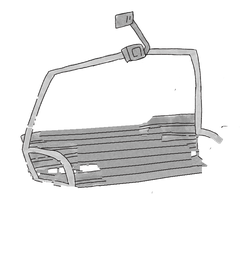
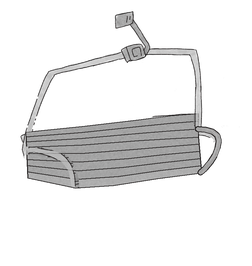
Clean up the empty chairs and doodle the lift towers in colour
The empty chair's seat and backrest are redrawn whole, closing the gaps,
with the original frame laid back on top and the right armrest bar his
ski hid drawn in to match the left. The towers are hand-drawn in colour
to sit with the chair art: a blue pole with a ladder and a yellow pad,
a braced cross-arm and the wheel train the cable now rides over.

Changed region(s): [[0.0833, 0.4211, 0.8889, 0.7218]]

diff --git a/griffinland.js b/griffinland.js
@@ -774,8 +774,9 @@ document.getElementById("gl-webring-random").addEventListener("click", function(
 
 // ===== The horizon ===========================================================
 // A white line-drawn treeline across the bottom of the desktop, with a
-// chairlift running over it: the cable and its towers are drawn in with the
-// trees, and the chairs (one of them carrying griffin) ride along on top.
+// chairlift running over it: the cable is drawn in with the trees, the
+// towers are doodled in colour on their own layer, and the chairs (one of
+// them carrying griffin) ride along on top.
 // Redrawn to fit whenever the window changes size.
 
 var GROUND_Y = 160;              // the ground line, in the horizon's 170px
@@ -814,20 +815,70 @@ function drawTrees() {
         x += rand(70, 190);
     }
 
-    // The lift: one cable climbing gently left to right...
-    d += " M0 " + cableY(0, W) + " L" + W + " " + cableY(W, W);
-    // ...held up by towers - a tapered pole, a cross-arm and two sheaves
-    for (var t = 170; t < W; t += 380) {
-        var cy = cableY(t, W);
-        d += " M" + (t - 5) + " " + base + " L" + (t - 2) + " " + (cy + 6) +
-             " M" + (t + 5) + " " + base + " L" + (t + 2) + " " + (cy + 6) +
-             " M" + (t - 4) + " " + (base - 30) + " H" + (t + 4) +
-             " M" + (t - 3) + " " + (base - 70) + " H" + (t + 3) +
-             " M" + (t - 16) + " " + (cy + 6) + " H" + (t + 16) +
-             " M" + (t - 11) + " " + (cy + 6) + " V" + (cy + 2) + " M" + (t + 11) + " " + (cy + 6) + " V" + (cy + 2);
-    }
-
     holder.innerHTML = '<svg viewBox="0 0 ' + W + ' 170" width="' + W + '" height="170"><path d="' + d + '"/></svg>';
+
+    // The lift's towers, drawn in their own layer so they can be coloured...
+    var towers = document.querySelector("#gl-horizon .gl-towers");
+    if (towers) {
+        var art = "";
+        for (var t = 170; t < W; t += 380) art += towerSVG(t, cableY(t, W), base);
+        // ...and the cable, climbing gently left to right over their wheels
+        art += '<path d="M0 ' + cableY(0, W) + ' L' + W + ' ' + cableY(W, W) + '" stroke="#fff" stroke-width="2" fill="none"/>';
+        towers.innerHTML =
+            '<svg viewBox="0 0 ' + W + ' 170" width="' + W + '" height="170">' +
+                // A touch of wobble on every line, so they look hand-drawn
+                '<filter id="gl-doodle"><feTurbulence type="fractalNoise" baseFrequency="0.06" numOctaves="2" seed="7"/>' +
+                '<feDisplacementMap in="SourceGraphic" scale="1.8"/></filter>' +
+                '<g filter="url(#gl-doodle)">' + art + '</g>' +
+            '</svg>';
+    }
+}
+
+// One lift tower, doodled to sit with the chair art: a blue pole in black ink
+// with a highlight and a ladder up its side, a yellow pad and a concrete
+// footing at the bottom, and at the top a braced cross-arm carrying the train
+// of wheels the cable rides over. t is the tower's x, cy the cable's height
+// there and base the ground line.
+var TOWER_INK = "#1d1b1b";
+var TOWER_BLUE = "#2b74b3";
+function towerSVG(t, cy, base) {
+    var poleTop = cy + 12;
+    var armY = cy + 10;
+    var wide = 7, narrow = 4.5;      // half-widths: the pole tapers as it rises
+    var ink = ' stroke="' + TOWER_INK + '" stroke-width="1.8" stroke-linejoin="round" stroke-linecap="round"';
+    var svg = "";
+
+    // footing and the yellow safety pad round the base
+    svg += '<rect x="' + (t - 11) + '" y="' + (base - 6) + '" width="22" height="7" fill="#c9c2b2"' + ink + '/>';
+    // the pole
+    svg += '<path d="M' + (t - narrow) + ' ' + poleTop + ' L' + (t + narrow) + ' ' + poleTop +
+           ' L' + (t + wide) + ' ' + (base - 6) + ' L' + (t - wide) + ' ' + (base - 6) + ' Z" fill="' + TOWER_BLUE + '"' + ink + '/>';
+    svg += '<path d="M' + (t - narrow + 2) + ' ' + (poleTop + 5) + ' L' + (t - wide + 2.5) + ' ' + (base - 28) + '" stroke="#8cc3ea" stroke-width="1.6" stroke-linecap="round"/>';
+    svg += '<rect x="' + (t - wide - 1.5) + '" y="' + (base - 26) + '" width="' + (wide * 2 + 3) + '" height="18" rx="2" fill="#f2c230"' + ink + '/>';
+    // the ladder up its right side
+    var lx = t + wide + 3;
+    svg += '<path d="M' + (lx - 1) + ' ' + (poleTop + 18) + ' L' + (lx + 0.5) + ' ' + (base - 28) +
+           ' M' + (lx + 4) + ' ' + (poleTop + 18) + ' L' + (lx + 5.5) + ' ' + (base - 28) + '" stroke="' + TOWER_INK + '" stroke-width="1" fill="none"/>';
+    var rungs = "";
+    for (var y = poleTop + 22; y < base - 30; y += 7) {
+        var f = (y - poleTop) / (base - poleTop);
+        rungs += ' M' + (lx - 1 + 1.5 * f) + ' ' + y + ' H' + (lx + 4 + 1.5 * f);
+    }
+    svg += '<path d="' + rungs + '" stroke="' + TOWER_INK + '" stroke-width="1"/>';
+    // braces from the pole out to the ends of the cross-arm: ink under blue
+    var braces = 'M' + (t - 2) + ' ' + (poleTop + 14) + ' L' + (t - 19) + ' ' + (armY + 2) +
+                 ' M' + (t + 2) + ' ' + (poleTop + 14) + ' L' + (t + 19) + ' ' + (armY + 2);
+    svg += '<path d="' + braces + '" stroke="' + TOWER_INK + '" stroke-width="5" stroke-linecap="round" fill="none"/>';
+    svg += '<path d="' + braces + '" stroke="' + TOWER_BLUE + '" stroke-width="2.4" stroke-linecap="round" fill="none"/>';
+    // the cross-arm
+    svg += '<rect x="' + (t - 26) + '" y="' + (armY - 3) + '" width="52" height="6" rx="1.5" fill="' + TOWER_BLUE + '"' + ink + '/>';
+    // the wheel train: a grey bar, and four wheels whose tops carry the cable
+    svg += '<rect x="' + (t - 21) + '" y="' + (cy + 4) + '" width="42" height="4" rx="1" fill="#cfcfcf"' + ink + '/>';
+    for (var k = -1.5; k <= 1.5; k++) {
+        svg += '<circle cx="' + (t + k * 10) + '" cy="' + (cy + 3.2) + '" r="3.4" fill="#f4f4f4"' + ink + '/>' +
+               '<circle cx="' + (t + k * 10) + '" cy="' + (cy + 3.2) + '" r="0.9" fill="' + TOWER_INK + '"/>';
+    }
+    return svg;
 }
 
 var LIFT_CHAIRS = 6;

diff --git a/index.html b/index.html
@@ -33,7 +33,7 @@
     </script>
 
     <link rel="stylesheet" href="main.css?v=2">
-    <link rel="stylesheet" href="griffinland.css?v=16">
+    <link rel="stylesheet" href="griffinland.css?v=17">
     <!-- Jquery -->
     <script src="https://ajax.googleapis.com/ajax/libs/jquery/3.5.1/jquery.min.js"></script>
     <link rel="stylesheet" href="https://code.jquery.com/ui/1.12.1/themes/base/jquery-ui.css">
@@ -81,6 +81,7 @@
                 <path d="M0 160 H1200"/>
             </svg>
             <div class="gl-trees"></div>
+            <div class="gl-towers"></div>
             <div class="gl-lift"></div>
             <img class="gl-dino" src="gifs/dino.png" alt="" draggable="false">
             <div class="gl-birds"><span>v</span><span>v</span><span>v</span></div>
@@ -322,7 +323,7 @@
       </div>
     </div>
     <script src="main.js?v=7"></script>
-    <script src="griffinland.js?v=8"></script>
+    <script src="griffinland.js?v=9"></script>
 
 </body>
 </html>

diff --git a/griffinland.css b/griffinland.css
@@ -1368,6 +1368,16 @@ html.gated #gl-horizon {
 .gl-trees svg {
     display: block;
 }
+/* The towers sit between the treeline and the chairs, at full strength */
+.gl-towers {
+    position: absolute;
+    left: 0;
+    top: 0;
+}
+.gl-towers svg {
+    display: block;
+    overflow: visible;
+}
 /* The dino, out for his walk along the line - one slow lap, bobbing */
 .gl-dino {
     position: absolute;

diff --git a/tools/griffin-rig.py b/tools/griffin-rig.py
@@ -91,48 +91,63 @@ for k, a in layers.items():
 print('wrote', len(layers), 'layers to', os.path.normpath(OUT))
 
 # ===== The empty chair ======================================================
-# The same chair with griffin lifted out, for the lift's other chairs.
-#   1. Find him: his colours (jacket, helmet, skin, goggles, bottle), the big
-#      dark trouser shapes, and the part outlines above (gloves, skis).
-#   2. Where he hid the seat and backrest, redraw them: slats between the
-#      edges the visible parts of the chair follow, in the art's line weight
-#      and its see-through marker grey.
-#   3. Anywhere else he covered is open air - except where his right ski
-#      crossed the frame's right-hand loop, which is bridged by inpainting.
+# The same chair with griffin lifted out, for the lift's other chairs. Rather
+# than patch around where he was:
+#   1. redraw the whole seat and backrest - slats in the art's see-through
+#      grey and line weight, closing every gap;
+#   2. lay the original frame back on top: the top rail and hanger, both
+#      posts and the left armrest bar, exactly as drawn (minus any flecks of
+#      his outline left floating on their own);
+#   3. draw the right armrest bar, which his ski hid, as a matching tube
+#      curving from the right post down to the seat's front corner.
 def empty_chair(arr):
     alpha = arr[:, :, 3]
+    yy, xx = np.mgrid[0:H, 0:W]
     hsv = cv2.cvtColor(np.ascontiguousarray(arr[:, :, :3]), cv2.COLOR_RGB2HSV).astype(int)
     s, v = hsv[:, :, 1], hsv[:, :, 2]
-    colourful = (s > 70) & (alpha > 0)
+
+    # griffin, as before: his colours, the big trouser shapes, the rig outlines
+    fig = (s > 70) & (alpha > 0)
     dark = ((v < 60) & (alpha > 0)).astype(np.uint8)
-    dark_big = cv2.morphologyEx(dark, cv2.MORPH_OPEN, np.ones((9, 9), np.uint8)) > 0
-    fig = colourful | dark_big
+    fig |= cv2.morphologyEx(dark, cv2.MORPH_OPEN, np.ones((9, 9), np.uint8)) > 0
     m = Image.new('L', (W, H), 0)
     for poly in PARTS.values():
         ImageDraw.Draw(m).polygon(poly, fill=255)
     fig |= np.array(m) > 127
-    # he sits inside the chair: nothing of him reaches the frame's top rail or
-    # posts, so keep the colour test off them (the frame's grey has a tint)
-    yy, xx = np.mgrid[0:H, 0:W]
     fig &= ~((yy < 215) | (xx < 80) | ((xx < 265) & (yy < 300)) | ((xx > 598) & (yy < 405)))
     fig = cv2.dilate(fig.astype(np.uint8), np.ones((7, 7), np.uint8)) > 0
-    fig = cv2.morphologyEx(fig.astype(np.uint8), cv2.MORPH_CLOSE, np.ones((15, 15), np.uint8)) > 0
 
-    # --- 2. the seat and backrest, redrawn where he hid them --------------------
+    INK = (30, 27, 27, 255)
+    GREY = (146, 146, 146, 255)
+    rng = np.random.default_rng(1)
+    grain = cv2.GaussianBlur(rng.normal(0, 9, (H, W)), (0, 0), 1.2)
+    see = cv2.GaussianBlur(rng.normal(0, 28, (H, W)), (0, 0), 1.5)
+
+    def marker(layer):
+        # the art's grey is see-through and grainy; give the drawn grey the same
+        a = np.array(layer)
+        g = (a[:, :, 3] > 0) & (a[:, :, 0] > 100)
+        a[g, :3] = np.clip(a[g, :3].astype(float) + grain[g][:, None], 0, 255).astype(np.uint8)
+        a[g, 3] = np.clip(212 + see[g], 150, 252).astype(np.uint8)
+        return a
+
     def lerp_line(a, b, t):
         return [(ax + (bx - ax) * t, ay + (by - ay) * t) for (ax, ay), (bx, by) in zip(a, b)]
 
-    xs = [88, 260, 440, 540, 640]
-    back_top = list(zip(xs, [418, 409, 396, 381, 366]))
-    back_bot = list(zip(xs, [467, 461, 447, 441, 436]))
-    seat_bot = list(zip(xs, [566, 596, 578, 562, 549]))
+    # --- 1. the seat and backrest, whole ----------------------------------------
+    xs = [82, 260, 440, 540, 630]
+    back_top = list(zip(xs, [420, 402, 381, 368, 361]))   # meets the drawn backrest's own top edge
+    back_bot = list(zip(xs, [468, 461, 447, 441, 436]))
+    seat_bot = list(zip([88, 240, 360, 500, 640], [566, 598, 590, 568, 550]))
     slats = Image.new('RGBA', (W, H), (0, 0, 0, 0))
     d = ImageDraw.Draw(slats)
-    d.polygon(back_top + back_bot[::-1], fill=(146, 146, 146, 255))   # the drawing's own grey
-    d.polygon(back_bot + seat_bot[::-1], fill=(146, 146, 146, 255))
+    d.polygon(back_top + back_bot[::-1], fill=GREY)
+    d.polygon(back_bot + seat_bot[::-1], fill=GREY)
     bar_top = lerp_line(back_bot, seat_bot, 0.8)
-    d.polygon(bar_top + seat_bot[::-1], fill=(158, 158, 158, 255))       # the seat's front bar
-    INK = (30, 27, 27, 255)
+    d.polygon(bar_top + seat_bot[::-1], fill=(158, 158, 158, 255))
+    slats = Image.fromarray(marker(slats))
+    d = ImageDraw.Draw(slats)
+    d.line(back_top, fill=INK, width=3, joint='curve')
     for t in (0.33, 0.66):
         d.line(lerp_line(back_top, back_bot, t), fill=INK, width=3, joint='curve')
     d.line(back_bot, fill=INK, width=3, joint='curve')
@@ -140,33 +155,55 @@ def empty_chair(arr):
         d.line(lerp_line(back_bot, seat_bot, t), fill=INK, width=3, joint='curve')
     d.line(bar_top, fill=INK, width=3, joint='curve')
     d.line(seat_bot, fill=INK, width=3, joint='curve')
-    slats = np.array(slats)
-    # The drawing's marker greys are see-through (alpha ~210, varying with the
-    # grain), so the fill is too - opaque grey looked flat next to the original
-    rng = np.random.default_rng(1)
-    grain = cv2.GaussianBlur(rng.normal(0, 9, (H, W)), (0, 0), 1.2)
-    see = cv2.GaussianBlur(rng.normal(0, 28, (H, W)), (0, 0), 1.5)
-    filled = (slats[:, :, 3] > 0) & (slats[:, :, 0] > 100)
-    slats[filled, :3] = np.clip(slats[filled, :3].astype(float) + grain[filled][:, None], 0, 255).astype(np.uint8)
-    slats[filled, 3] = np.clip(212 + see[filled], 150, 252).astype(np.uint8)
+    # the seat's two ends
+    d.line([back_top[0], seat_bot[0]], fill=INK, width=3)
+    d.line([back_top[-1], back_bot[-1], seat_bot[-1]], fill=INK, width=3)
+    im = Image.new('L', (W, H), 0)
+    ImageDraw.Draw(im).polygon(back_top + back_bot[::-1], fill=255)
+    ImageDraw.Draw(im).polygon(back_bot + seat_bot[::-1], fill=255)
+    interior = np.array(im) > 0
 
-    # --- 3. put it together ------------------------------------------------------
-    rgb = arr[:, :, :3].copy()
-    rgb[alpha < 20] = 255
-    hole = fig.astype(np.uint8) * 255
-    rgb_f = cv2.inpaint(np.ascontiguousarray(rgb[:, :, ::-1]), hole, 9, cv2.INPAINT_TELEA)[:, :, ::-1]
-    a_f = cv2.inpaint(alpha, hole, 9, cv2.INPAINT_TELEA)
-    out = arr.copy()
-    inside = fig & (slats[:, :, 3] > 0)
-    out[inside] = slats[inside]
-    # Everything else he covered is open air - except where his right ski
-    # crossed the frame's right-hand loop, which gets bridged from either side
-    rest = fig & ~inside
-    bridge = rest & (xx > 600) & (yy > 380) & (yy < 530)
-    out[rest, 3] = 0
-    out[bridge, :3] = rgb_f[bridge]
-    out[bridge, 3] = np.where(a_f[bridge] > 160, 255, 0)
-    return out
+    # --- 2. the original frame, back on top --------------------------------------
+    def tube_mask(points, width):
+        t = Image.new('L', (W, H), 0)
+        ImageDraw.Draw(t).line(points, fill=255, width=width, joint='curve')
+        return np.array(t) > 0
+    frame = (~interior) & (yy < 470)                                         # top rail, hanger, upper posts
+    frame |= tube_mask([(84, 335), (70, 420), (61, 478), (66, 525), (78, 556), (100, 580)], 26)   # left post
+    frame |= tube_mask([(62, 478), (110, 478), (160, 488), (205, 505), (228, 535), (236, 570), (238, 598)], 26)  # left armrest bar
+    frame |= tube_mask([(620, 300), (626, 380), (630, 414)], 26)              # right post
+    frame &= ~fig
+    kept = arr.copy()
+    kept[~frame, 3] = 0
+    # drop flecks: bits of his outline left floating on their own
+    n, labels, stats, _ = cv2.connectedComponentsWithStats((kept[:, :, 3] > 40).astype(np.uint8), 8)
+    for i in range(1, n):
+        if stats[i, cv2.CC_STAT_AREA] < 150:
+            kept[labels == i, 3] = 0
+    # open air beyond the chair stays open: nothing below the seat or beside it
+    out = Image.alpha_composite(slats, Image.fromarray(kept))
+
+    # --- 3. the right armrest bar ------------------------------------------------
+    right_bar = [(628, 410), (652, 412), (674, 418), (689, 430), (694, 448), (690, 470), (681, 494), (667, 516), (651, 535), (636, 548)]
+    tube = Image.new('RGBA', (W, H), (0, 0, 0, 0))
+    td = ImageDraw.Draw(tube)
+    td.line(right_bar, fill=INK, width=19, joint='curve')
+    for p in (right_bar[0], right_bar[-1]):
+        td.ellipse([p[0] - 9, p[1] - 9, p[0] + 9, p[1] + 9], fill=INK)
+    inner = Image.new('RGBA', (W, H), (0, 0, 0, 0))
+    TUBE = (191, 191, 191, 255)   # the frame's own lighter grey
+    ImageDraw.Draw(inner).line(right_bar, fill=TUBE, width=14, joint='curve')
+    for p in (right_bar[0], right_bar[-1]):
+        ImageDraw.Draw(inner).ellipse([p[0] - 6, p[1] - 6, p[0] + 6, p[1] + 6], fill=TUBE)
+    inner = Image.fromarray(marker(inner))
+    tube = Image.alpha_composite(tube, inner)
+    out = Image.alpha_composite(out, tube)
+    # a highlight down the tube, like the drawn ones have
+    hl = Image.new('RGBA', (W, H), (0, 0, 0, 0))
+    ImageDraw.Draw(hl).line([(p[0] - 2, p[1] - 2) for p in right_bar[1:-2]], fill=(200, 200, 200, 120), width=3, joint='curve')
+    out = Image.alpha_composite(out, hl)
+
+    return np.array(out)
 
 empty = empty_chair(arr)
 Image.fromarray(empty).resize((252, 266), Image.LANCZOS).save(os.path.join(OUT, 'empty-chair.png'), optimize=True)

diff --git a/README.md b/README.md
@@ -97,11 +97,15 @@ headings in `griffinland.css`. The desktop is forest green (`--gl-forest`).
   fall. On by default, toggled in View.
 - **The horizon** - a white treeline drawn to fit the window, with a
   chairlift running over it, the dino walking along the ground and birds
-  going over.
+  going over. The lift towers are doodled in colour to sit with the chair art
+  (`towerSVG()`: blue pole, ladder, yellow pad, braced cross-arm and the wheel
+  train the cable rides over), with a wobble filter on every line.
 - **griffin, on the lift** - one chair carries griffin, animated from his own
   chairlift art; the other chairs are the same chair, empty.
   `tools/griffin-rig.py` cuts the drawing into layers - chair and body, each
-  leg and ski, head, shaka arm, beer hand - and makes the empty chair. He
+  leg and ski, head, shaka arm, beer hand - and makes the empty chair (the
+  seat and backrest redrawn whole, and the right armrest bar his ski hid
+  drawn back in to match the left). He
   rests by default (arm on the chair back, skis dangling); every few seconds
   griffinland.js picks one thing for him to do - a sip, a shaka, sometimes
   both, or a look around (the `ACTIONS` list) - and griffinland.css eases
